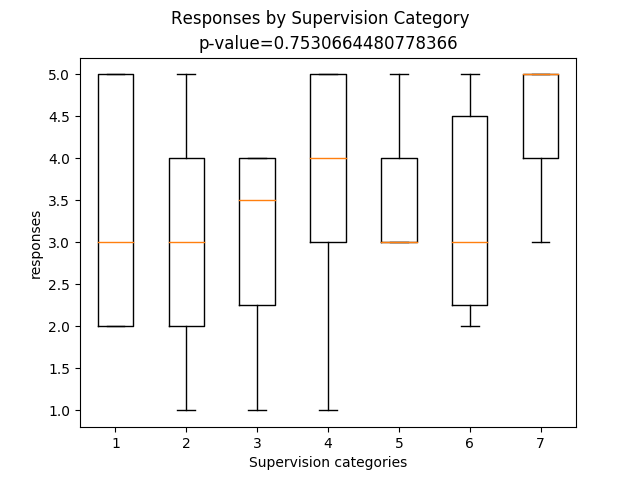
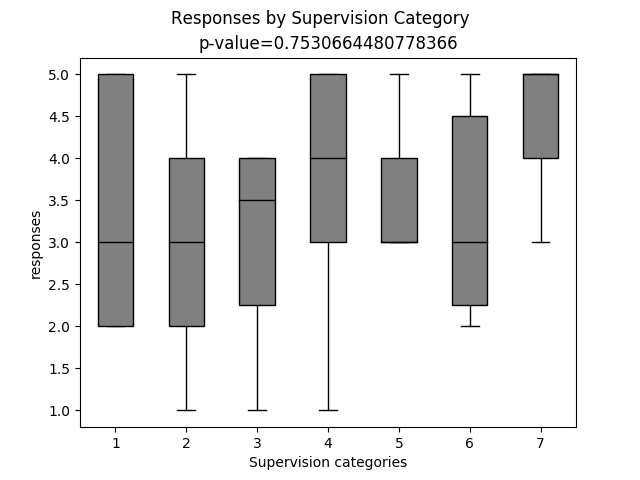
changed boxplot color

diff --git a/question_2_addendum.py b/question_2_addendum.py
@@ -79,14 +79,28 @@ def question2add(df, sup_list):
 	# EVALUATING THE EFFECTS OF SUPERVISION
 	group7 = pd.concat([df['Self-assess interpersonal skills']], ignore_index=True)
 
+	columns = ['Supervising within your scope', 'Supervisory volume', 'Supervisory delegation', \
+               'Designing effective training', 'Communication of supervision conditions', \
+               'Providing feedback to supervisees', 'Evaluating the effects of supervision']
+
 	df = pd.concat([group1, group2, group3, group4, group5, group6, group7], axis=1, ignore_index=True)
+	df.columns = columns
 
 	# Run ANOVA
 	data = [df[col].dropna() for col in df]
 	f, p = stats.f_oneway(*data)
  
+	# Boxplot
+	bp = plt.boxplot([group1, group2, group3, group4, group5, group6, group7], patch_artist=True)
 
-	_ = plt.boxplot([group1, group2, group3, group4, group5, group6, group7])
+	# Chance color of boxes
+	for box in bp['boxes']:
+ 		box.set(facecolor = 'gray')
+ 
+ 	# Change color of median line
+	for median in bp['medians']:
+		median.set(color = 'black')
+
 	_ = plt.suptitle('Responses by Supervision Category')
 	_ = plt.title('p-value='+str(p))
 	_ = plt.xlabel('Supervision categories')
